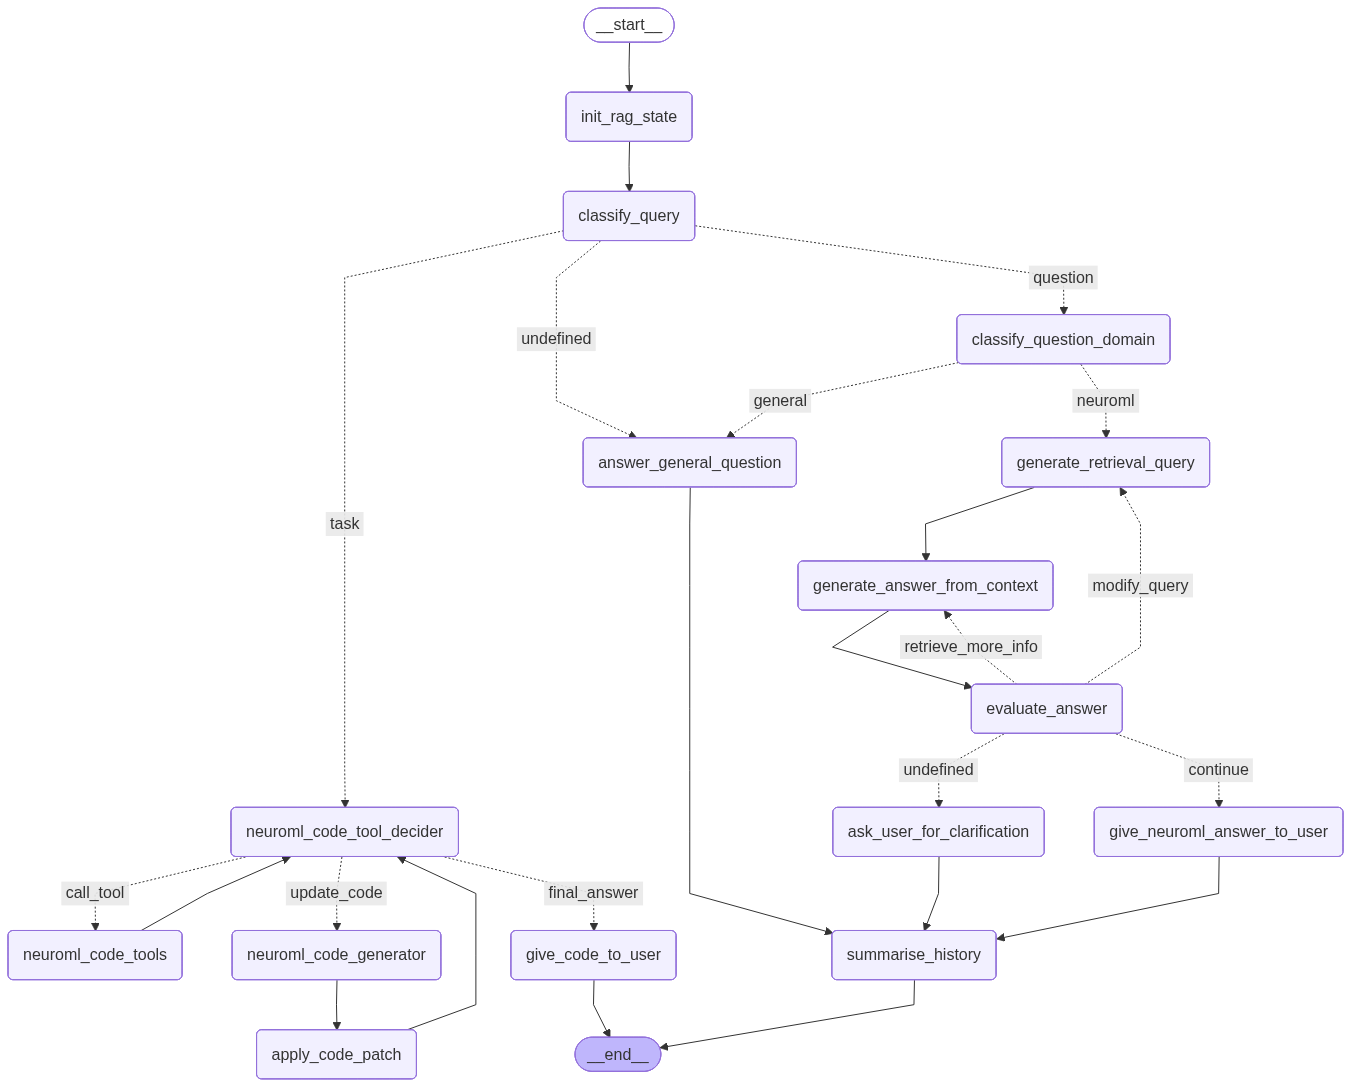
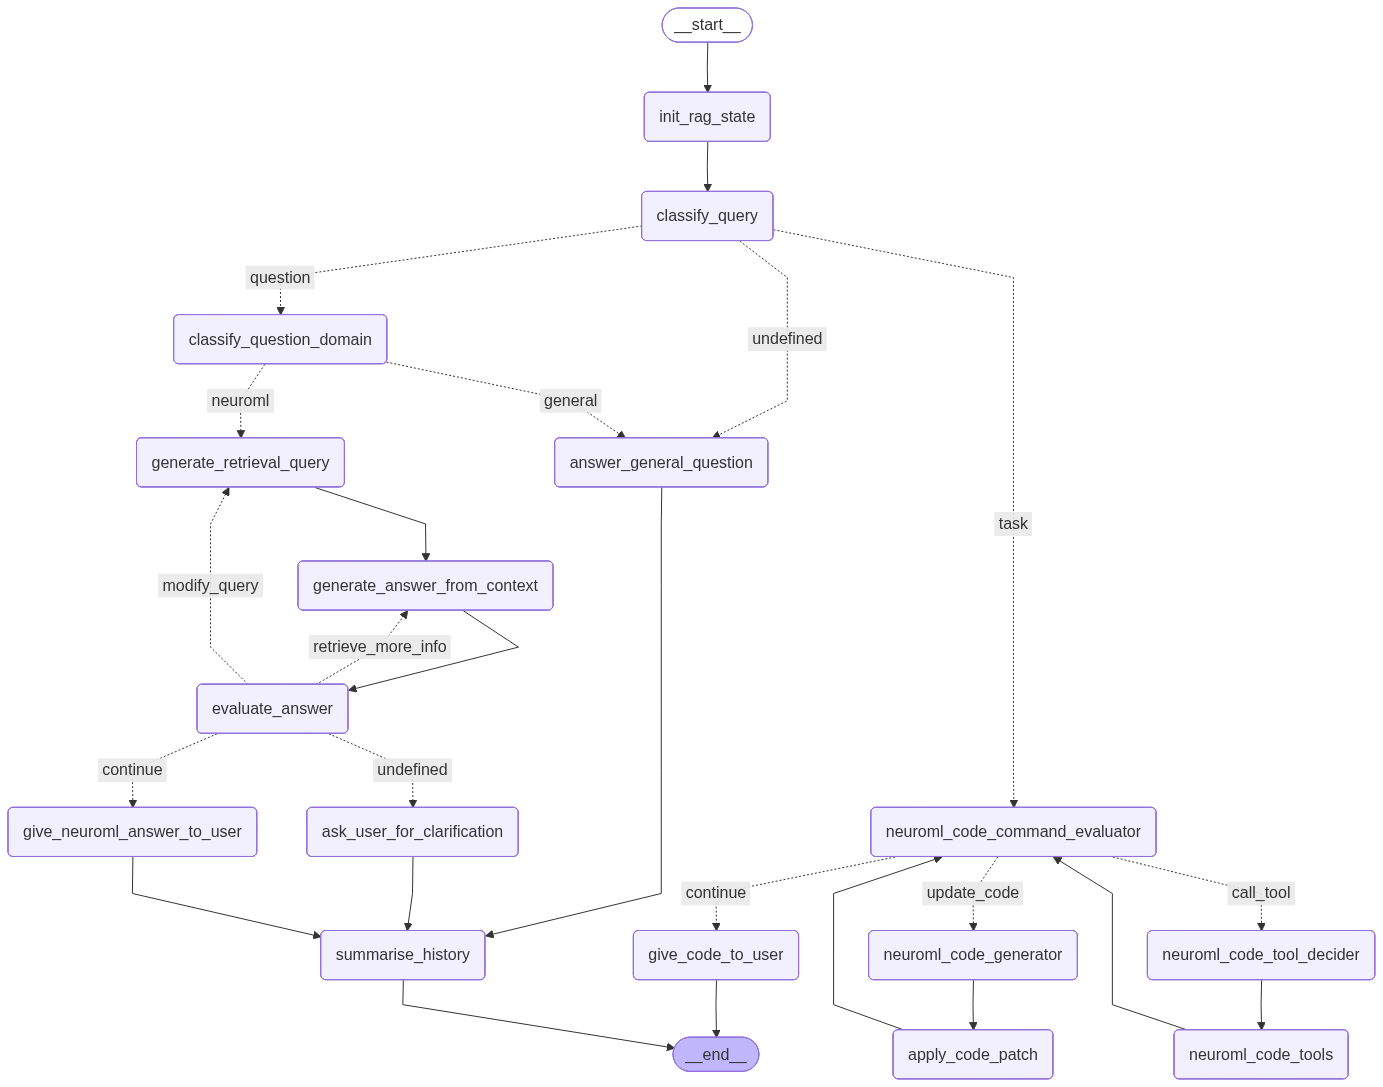
wip(code): need to split evaluator into two for robustness

diff --git a/neuroml_ai/rag/rag.py b/neuroml_ai/rag/rag.py
@@ -319,6 +319,13 @@ class NML_RAG(object):
             "text_response_eval": EvaluateAnswerSchema(),
             "message_for_user": "",
             "reference_material": {},
+            "code_eval": EvaluateCodeCommandSchema(),
+            "tool_response": CallToolResult(
+                content=[],
+                structured_content=None,
+                data={},
+                meta=None,
+            )
         }
 
     def _classify_query_node(self, state: AgentState) -> dict:
@@ -493,15 +500,15 @@ class NML_RAG(object):
         system_prompt = dedent("""
         You are a coding assistant operating in discrete steps. Reason about
         the user query and decide what the next action should be. Take the any
-        currently provided code and execution outputs into account.
+        currently provided code and previous tool call outputs into account.
 
         Choose exactly one action.
         Valid actions are (in priority order):
 
         - call_tool: if a tool call is required to address the query
         - update_code: if the code must be changed before further execution
-        - continue: otherwise, if the generated code or the command output
-          should be given to the user
+        - continue: otherwise, if the generated code or the tool call output is
+          to be given to the user
 
         Specify the chosen action in the "next_step" field:
 
@@ -521,6 +528,15 @@ class NML_RAG(object):
             ```
             """)
 
+        if len(state.tool_call.tool):
+            system_prompt += dedent("""
+            # Tool called:
+
+            ```
+            {current_tool_call}
+            ```
+            """)
+
         if state.tool_response:
             tool_call_output = state.tool_response
         else:
@@ -534,7 +550,7 @@ class NML_RAG(object):
         if tool_call_output.data.get("returncode", None):
             system_prompt += dedent("""
 
-            # Command execution return code
+            ## Tool call returncode
 
             ```
             {current_returncode}
@@ -544,7 +560,7 @@ class NML_RAG(object):
 
         if len(tool_call_output.data.get("stdout", "")):
             system_prompt += dedent("""
-            # Command execution output (stdout)
+            ## Tool call execution output (stdout)
 
             ```
             {current_stdout}
@@ -555,7 +571,7 @@ class NML_RAG(object):
         if len(tool_call_output.data.get("stderr", "")):
             system_prompt += dedent("""
 
-            # Command execution error (stderr)
+            ## Tool call execution error (stderr)
 
             ```
             {current_stderr}
@@ -587,6 +603,7 @@ class NML_RAG(object):
                 "query": state.query,
                 "tool_description": self.tool_description,
                 "current_code": state.code,
+                "current_tool_call": state.tool_call.tool,
                 "current_stdout": tool_call_output.data.get("stdout", ""),
                 "current_stderr": tool_call_output.data.get("stderr", ""),
                 "current_returncode": tool_call_output.data.get("returncode", ""),
@@ -596,7 +613,7 @@ class NML_RAG(object):
         self.logger.debug(f"{prompt = }")
 
         output = query_node_llm.invoke(
-            prompt, config={"configurable": {"temperature": 0.3}}
+            prompt, config={"configurable": {"temperature": 0.0}}
         )
 
         self.logger.debug(f"{output =}")
@@ -646,6 +663,15 @@ class NML_RAG(object):
 
             ```
             {current_code}
+            ```
+            """)
+
+        if len(state.tool_call.tool):
+            system_prompt += dedent("""
+            # Tool called:
+
+            ```
+            {current_tool_call}
             ```
             """)
 
@@ -715,6 +741,7 @@ class NML_RAG(object):
                 "query": state.query,
                 "tool_description": self.tool_description,
                 "current_code": state.code,
+                "current_tool_call": state.tool_call.tool,
                 "current_stdout": tool_call_output.data.get("stdout", ""),
                 "current_stderr": tool_call_output.data.get("stderr", ""),
                 "current_returncode": tool_call_output.data.get("returncode", ""),
@@ -724,7 +751,7 @@ class NML_RAG(object):
         self.logger.debug(f"{prompt = }")
 
         output = query_node_llm.invoke(
-            prompt, config={"configurable": {"temperature": 0.3}}
+            prompt, config={"configurable": {"temperature": 0.0}}
         )
 
         self.logger.debug(f"{output =}")
@@ -754,7 +781,11 @@ class NML_RAG(object):
             tool_response = await self.mcp_client.call_tool(tool, tool_args)
 
         self.logger.debug(f"{tool_response =}")
-        return {"tool_response": tool_response}
+        return {"tool_response": tool_response,
+                "code_eval": EvaluateCodeCommandSchema(
+                    next_step="undefined",
+                    reason="",
+                )}
 
     def _neuroml_code_tool_router(self, state: AgentState) -> str:
         """Tool router"""
@@ -814,7 +845,7 @@ class NML_RAG(object):
             CodeSchema, method="json_schema", include_raw=True
         )
 
-        output = code_node_llm(prompt, config={"configurable": {"temperature": 0.01}})
+        output = code_node_llm.invoke(prompt, config={"configurable": {"temperature": 0.01}})
 
         if output["parsing_error"]:
             result = parse_output_with_thought(output["raw"], CodeSchema)
@@ -845,14 +876,70 @@ class NML_RAG(object):
             code.code = tool_call_output["data"]["code"]
             code.version += 1
 
-        return {"tool_response": tool_response, "code": code}
+        return {"tool_response": tool_response, "code": code,
+                "code_eval": EvaluateCodeCommandSchema(
+                    next_step="undefined",
+                    reason="",
+                )}
 
     def _give_code_to_user_node(self, state: AgentState) -> dict:
         """Return the answer message to the user"""
         self.logger.debug(f"{state =}")
         self.logger.info(f"Returning code to user: {state.code}")
+        user_message = ""
 
-        return {"message_for_user": state.code}
+        if len(state.code.code):
+            user_message += dedent(f"""
+            # Code
+
+            ```
+            {state.code.code}
+            ```
+            """)
+
+        if state.tool_response:
+            tool_call_output = state.tool_response
+        else:
+            tool_call_output = CallToolResult(
+                content=[],
+                structured_content=None,
+                data={},
+                meta=None,
+            )
+
+        if tool_call_output.data.get("returncode", None):
+            user_message += dedent(f"""
+
+            # Command execution return code
+
+            ```
+            {tool_call_output.data.get("returncode")}
+            ```
+
+            """)
+
+        if len(tool_call_output.data.get("stdout", "")):
+            user_message += dedent(f"""
+            # Command execution output (stdout)
+
+            ```
+            {tool_call_output.data.get("stdout")}
+            ```
+
+            """)
+
+        if len(tool_call_output.data.get("stderr", "")):
+            user_message += dedent(f"""
+
+            # Command execution error (stderr)
+
+            ```
+            {tool_call_output.data.get("stderr")}
+            ```
+
+            """)
+
+        return {"message_for_user": user_message}
 
     def _answer_general_question_node(self, state: AgentState) -> dict:
         """Answer a general question"""
